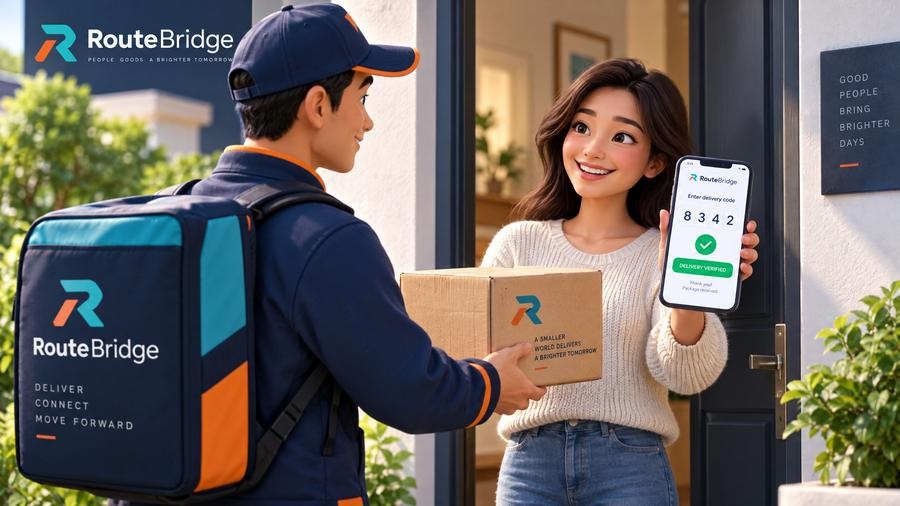
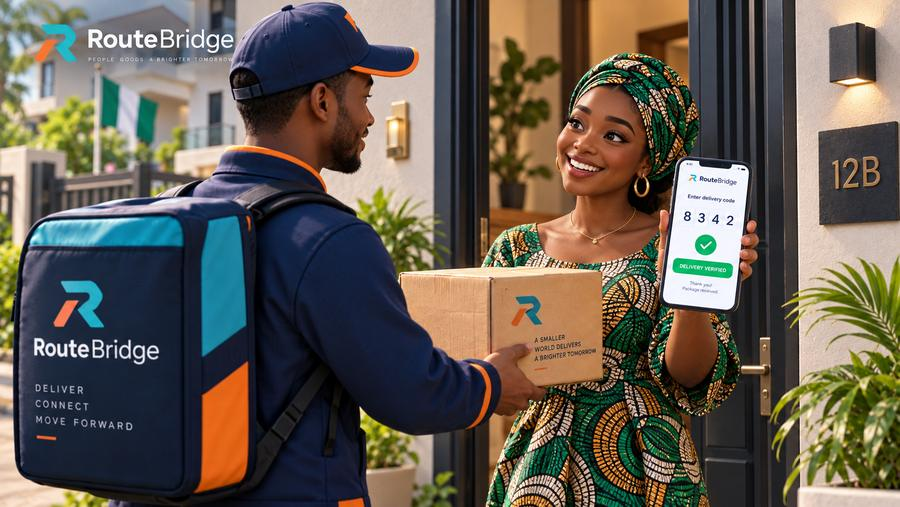
Landing: Nigerian hero photos; one Call / WhatsApp card; API trusts extra origins
- Slides 2 and 3 replaced with the Nigerian versions (Lekki bridge and danfo;
  doorstep handover with the verified code). 1672 px web copies, 900 px for phones.
- Call and WhatsApp share one number, so they are one card with a Call and a
  WhatsApp button (full-width buttons on phones), next to the email card.
- docker-compose: ALLOWED_ORIGINS (a JSON list) can override the trusted
  websites, so the public demo link and http://localhost:3000 both work while
  Google sign-in returns to the public link.

diff --git a/frontend/routebridge/apps/web/components/landing.tsx b/frontend/routebridge/apps/web/components/landing.tsx
@@ -234,14 +234,15 @@ export function Landing() {
           <div className="lp-contact">
             <p>Want RouteBridge Logistics to deliver for your shop, or have a question about an order or a payment? Call, chat on WhatsApp or send us an email and we will get back to you.</p>
             <div className="lp-contact-cards">
-              <a className="lp-contact-card" href={`tel:${CONTACT_PHONE.tel}`}>
+              {/* one number for calls and WhatsApp: one card, two buttons */}
+              <div className="lp-contact-card lp-contact-phone">
                 <LandingIcon name="call" />
-                <span><small>Call us</small><b>{CONTACT_PHONE.display}</b></span>
-              </a>
-              <a className="lp-contact-card lp-contact-whatsapp" href={`https://wa.me/${CONTACT_PHONE.whatsapp}?text=${encodeURIComponent('Hello RouteBridge Logistics, ')}`} target="_blank" rel="noopener noreferrer">
-                <LandingIcon name="chat" />
-                <span><small>Chat on WhatsApp</small><b>{CONTACT_PHONE.display}</b></span>
-              </a>
+                <span><small>Call / WhatsApp</small><b>{CONTACT_PHONE.display}</b></span>
+                <span className="lp-contact-actions">
+                  <a className="lp-btn lp-btn-outline" href={`tel:${CONTACT_PHONE.tel}`}>Call</a>
+                  <a className="lp-btn lp-btn-outline" href={`https://wa.me/${CONTACT_PHONE.whatsapp}?text=${encodeURIComponent('Hello RouteBridge Logistics, ')}`} target="_blank" rel="noopener noreferrer">WhatsApp</a>
+                </span>
+              </div>
               <a className="lp-contact-card" href={`mailto:${CONTACT_EMAIL}?subject=${encodeURIComponent('RouteBridge enquiry')}`}>
                 <LandingIcon name="mail" />
                 <span><small>Email us</small><b>{CONTACT_EMAIL.split('@')[0]}@<wbr />{CONTACT_EMAIL.split('@')[1]}</b></span>

diff --git a/frontend/routebridge/apps/web/app/globals.css b/frontend/routebridge/apps/web/app/globals.css
@@ -1005,3 +1005,11 @@ body{background:#f8fafc;background-image:none}
 /* a dark band under the top menu so it stays readable over any slide (some photos carry their own logo up there) */
 .lp-hero::after{background:linear-gradient(180deg,rgba(15,23,42,.85) 0,rgba(15,23,42,.55) 10%,rgba(15,23,42,0) 24%),linear-gradient(96deg,rgba(15,23,42,.96) 0,rgba(15,23,42,.88) 38%,rgba(15,23,42,.55) 70%,rgba(15,23,42,.3) 100%)}
 @media (max-width:760px){.lp-hero::after{background:linear-gradient(180deg,rgba(15,23,42,.94) 0,rgba(15,23,42,.84) 55%,rgba(15,23,42,.7) 100%)}}
+/* Call / WhatsApp share one number: one card with a Call and a WhatsApp button; it takes two columns where there is room */
+.lp-contact-cards{grid-template-columns:repeat(auto-fit,minmax(min(100%,300px),1fr))}
+.lp-contact-phone{flex-wrap:wrap;grid-column:span 2}
+.lp-contact-phone:hover{border-color:#e2e8f0;border-left-color:#1746d1;background:#f8fafc}
+.lp-contact-actions{display:flex!important;gap:10px;margin-left:auto}
+.lp-contact-actions .lp-btn{min-height:40px;padding:0 18px;font-size:15px}
+@media (max-width:700px){.lp-contact-phone{grid-column:auto}.lp-contact-actions{margin-left:0;width:100%}.lp-contact-actions .lp-btn{flex:1}}
+.lp-contact-card .lp-contact-actions{gap:10px}
